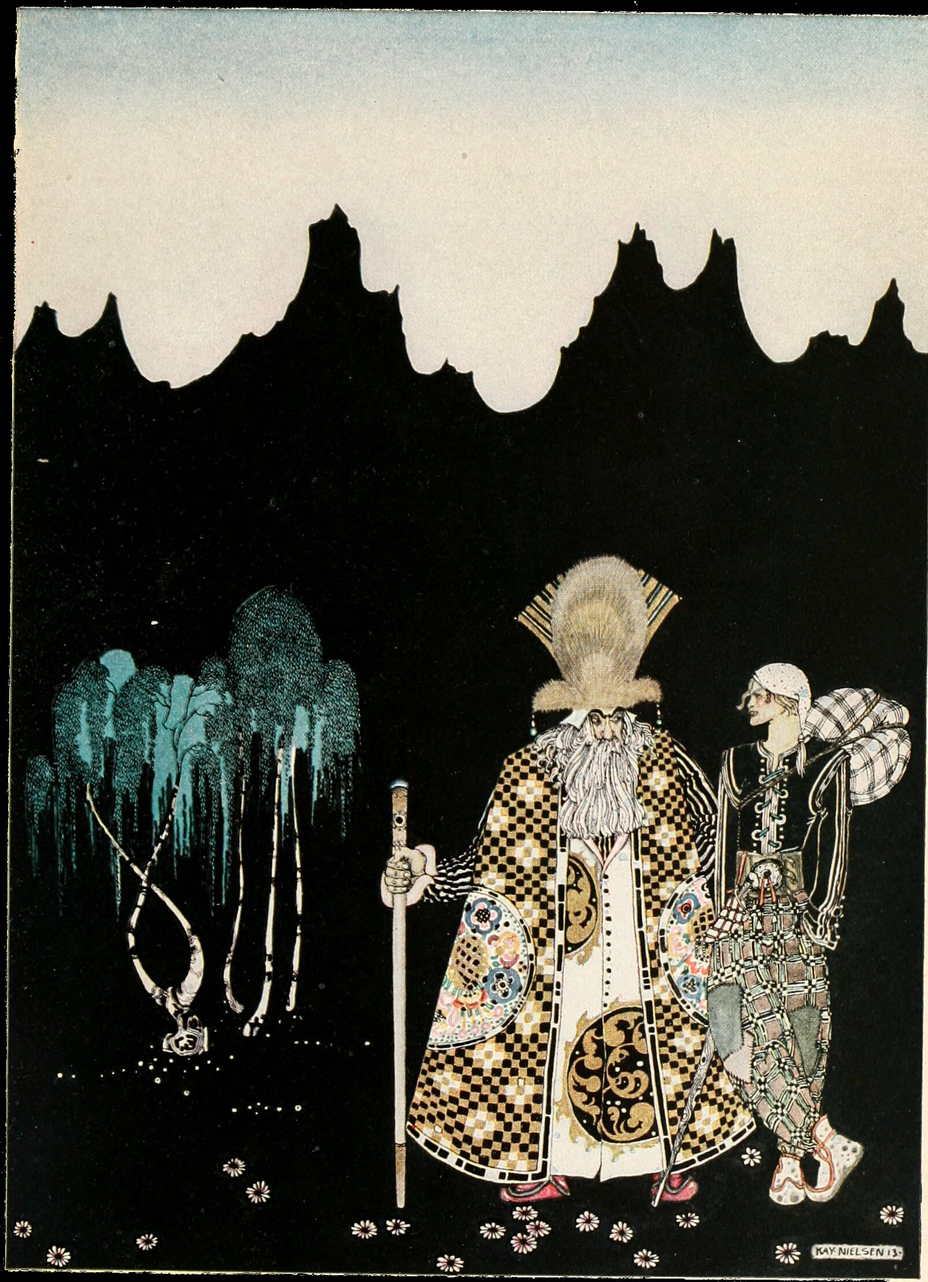
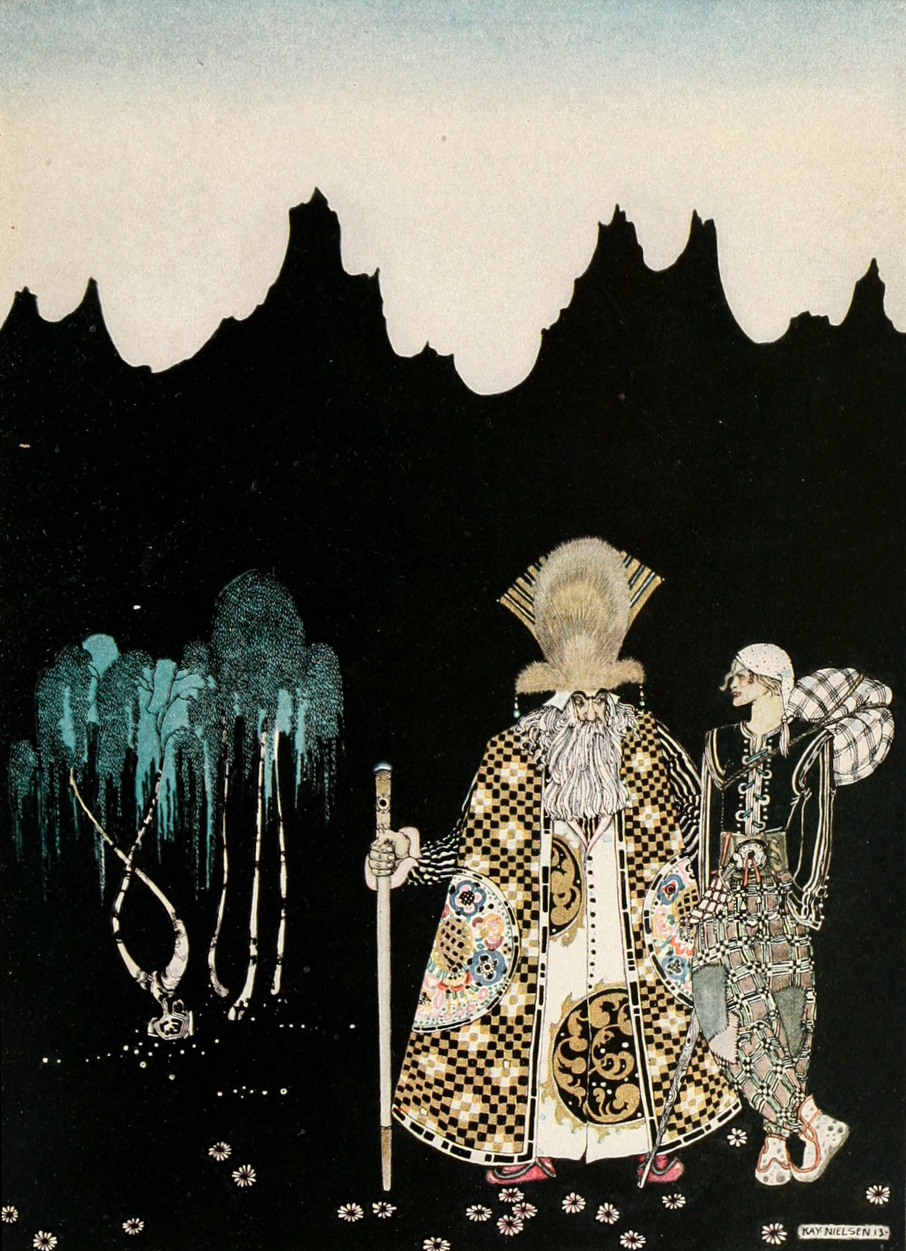
stnadardized merchant

diff --git a/hacks/backgrounds/merchant.md b/hacks/backgrounds/merchant.md
@@ -1,33 +1,42 @@
 ---
-title: "Merchant"
+title: Merchant
 layout: default
 nav_exclude: true
 parent: Backgrounds
 grand_parent: Hacks
 ---
 
-![](https://aboleth-overlords.com/wp-content/uploads/2021/02/merchant.jpg)
+![![Alt text](/img/backgrounds/merchant.jpg "East of the Sun and West of the Moon, illustrated by Kay Nielsen"){:height="75%" width="75%"}](/img/backgrounds/merchant.jpg)
 
-## You get
+# Merchant
 
-A nice floppy hat, a pouch of spices you accidentally mixed together, a small club you used to chase away thieves and savvy hagglers.
+## Starting Gear
+
+- 3d6 gold pieces
+- Three days’ rations
+- Torches (2)
+- Floppy hat
+- A pouch of spices you accidentally mixed together
+- A small club you used to chase away thieves and savvy hagglers.
 
 ## How was your career ruined?
 
-1. **Ridiculous inventory** - Turns out very few people are interested in purchasing "The deed to 1 Goblin."
-2. **Cursed product** \- That weird sky rock you sold to the baron cracked, besetting the fief with vapors of an intelligible color. You decided to skip town before anyone traced the source.
-3. **Lost investment -** The spice ship you paid for almost reached the Duchy before it was wrecked by the marauding merfolk. If only you had coin enough to hire muscle to go retrieve the wreckage.
-4. **Limitless discount -** Your initial idea of giving someone a coupon redeemable for 10% off of a purchase for ever 100 gold pieces spent drew lots of return customers. Then someone had the bright idea to cash in 10 at once and take everything.
-5. **Hunted -** Your specialty of monster teeth and claws came back to bite you in more ways than one when a troll regenerated from a poorly bleached fang.
-6. **Planar legal fees -** Thinking this nasty-looking silver sword you were traded by an adventurer would net you a pretty penny, you were met with headache when a strange-looking figure stepped out of a portal threatening legal action as your "crystal sphere" didn't have the license associated with selling such a weapon.
+|      |      |      |
+| ---- | ---- | ---- |
+| 1    |**Ridiculous inventory** | Turns out very few people are interested in purchasing "The deed to 1 Goblin." |
+| 2    |**Cursed product** | That weird sky rock you sold to the baron cracked, besetting the fief with vapors of an intelligible color. You decided to skip town before anyone traced the source. |
+| 3    |**Lost investment** | The spice ship you paid for almost reached the Duchy before it was wrecked by the marauding mer-folk. If only you had coin enough to hire muscle to go retrieve the wreckage. |
+| 4    |**Limitless discount** | Your initial idea of giving someone a coupon redeemable for 10% off of a purchase for ever 100 gold pieces spent drew lots of return customers. Then someone had the bright idea to cash in 10 at once and take everything. |
+| 5    |**Hunted** | Your specialty of monster teeth and claws came back to bite you in more ways than one when a troll regenerated from a poorly bleached fang. |
+| 6    |**Planar legal fees** | Thinking this nasty-looking silver sword you were traded by an adventurer would net you a pretty penny, you were met with headache when a strange-looking figure stepped out of a portal threatening legal action as your "crystal sphere" didn't have the license associated with selling such a weapon. |
 
 ## What was one interesting trade that you kept?
 
-1. **Riddle Skull -** A human skull that responds to the words "riddle me" with a unique riddle, up to once per day. Getting the riddle wrong enrages the skull who spends the better part of an hour trying to bite you. You were told something great would happen if you got three days in a row correct, but have yet to do so.
-2. **Rodent Automata -** Brass and tin mechanical mouse. Will follow instructions of up to four or five sentences spoken to it before being wound up. Afterwards it will buzz and hum and go about completing the task, best it can as a small, robotic mouse. Unfortunately its winding only sustains it for about ten minutes.
-3. **Wand of Clutter -** Gesturing this wand at a sorted collection of dishware, clothing, or any nick-knacks will compel the items to get up, run around in disarray and come to rest in a mess over a 10 foot by 10 foot area.
-4. **Tricorn of True North** **\-** A decent hat that will rotate atop your dome, always pointing north when worn.
-5. **Iridescent Salamander -** Small lizard-like creature that secretes a lightly-glowing fluid once a day when agitated. This substance glows with about the luminance of a candle and glows in a variety of colors. The salamander unfortunately also bites when angered.
-6. **Man's Best Boot** - This single leather boot follows you with the upmost loyalty and even pants like a dog. It isn't able to bark, but will excitedly tap or stomp the ground.
-
-_This work is licensed under a [Creative Commons Attribution 4.0 International License](http://creativecommons.org/licenses/by/4.0/)._
+|      |      |      |
+| ---- | ---- | ---- |
+| 1    |**Riddle Skull** | A human skull that responds to the words "riddle me" with a unique riddle, up to once per day. Getting the riddle wrong enrages the skull who spends the better part of an hour trying to bite you. You were told something great would happen if you got three days in a row correct, but have yet to do so. |
+| 2    |**Rodent Automata** | Brass and tin mechanical mouse. Will follow instructions of up to four or five sentences spoken to it before being wound up. Afterwards it will buzz and hum and go about completing the task, best it can as a small, robotic mouse. Unfortunately its winding only sustains it for about ten minutes. |
+| 3    |**Wand of Clutter** | Gesturing this wand at a sorted collection of dish-ware, clothing, or any knickknacks will compel the items to get up, run around in disarray and come to rest in a mess over a 10 foot by 10 foot area. |
+| 4    |**Tricorn of True North** | A decent hat that will rotate atop your dome, always pointing north when worn. |
+| 5    |**Iridescent Salamander** | Small lizard-like creature that secretes a lightly-glowing fluid once a day when agitated. This substance glows with about the luminance of a candle and glows in a variety of colors. The salamander unfortunately also bites when angered. |
+| 6    |**Man's Best Boot** | This single leather boot follows you with the utmost loyalty and even pants like a dog. It isn't able to bark, but will excitedly tap or stomp the ground. |

diff --git a/hacks/backgrounds/blank.md b/hacks/backgrounds/blank.md
@@ -16,8 +16,7 @@ grand_parent: Hacks
 - Three days’ rations
 - Torches (2)
 
-
-## Why did you ____ leave? Roll 1d6:
+## 
 
 
 |      |      |      |
@@ -29,8 +28,7 @@ grand_parent: Hacks
 | 5    |**** |      |
 | 6    |**** |      |
 
-## What keepsake did you retain?
-
+##
 
 |      |      |      |
 | ---- | ---- | ---- |
